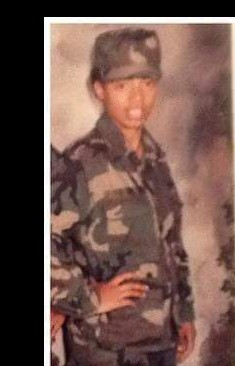
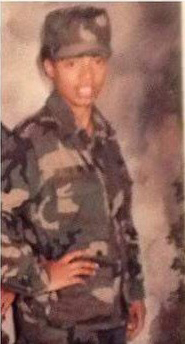
Add images for contact section and style adjustments for better presentation

diff --git a/styles.css b/styles.css
@@ -713,6 +713,9 @@ button, input, textarea { font: inherit; }
   color: white;
   text-transform: uppercase;
 }
+.contact-heading h2 img{
+  width: 50%;
+}
 .contact-heading h2 .script-accent {
   color: var(--pink-soft);
   font: 400 4rem/1 "Pacifico", cursive;
@@ -800,6 +803,8 @@ button, input, textarea { font: inherit; }
   .top-bar__actions {
     justify-content: center;
   }
+
+
 }
 
 @media (max-width: 980px) {
@@ -840,6 +845,7 @@ button, input, textarea { font: inherit; }
   .bg-section { padding: 90px 0; }
   .contact-layout { grid-template-columns: 1fr; gap: 40px; }
   .contact-heading { text-align: center; }
+  .contact-heading h2 img{ margin: 0 auto; }
 }
 
 

diff --git a/index.html b/index.html
@@ -203,7 +203,9 @@
           </form>
         </div>
         <div class="contact-heading">
-          <h2>Contact<br /><span class="script-accent">Andrea</span></h2>
+          <h2>Contact<br />
+            <img src="assets/andrea-name.png" />
+          </h2>
           <p>Have a question, idea, or want to get involved? Send a message and the campaign will be in touch.</p>
           <div class="contact-info">
             <p><a href="mailto:info@andreawaughdistrict8.com">info@andreawaughdistrict8.com</a></p>
